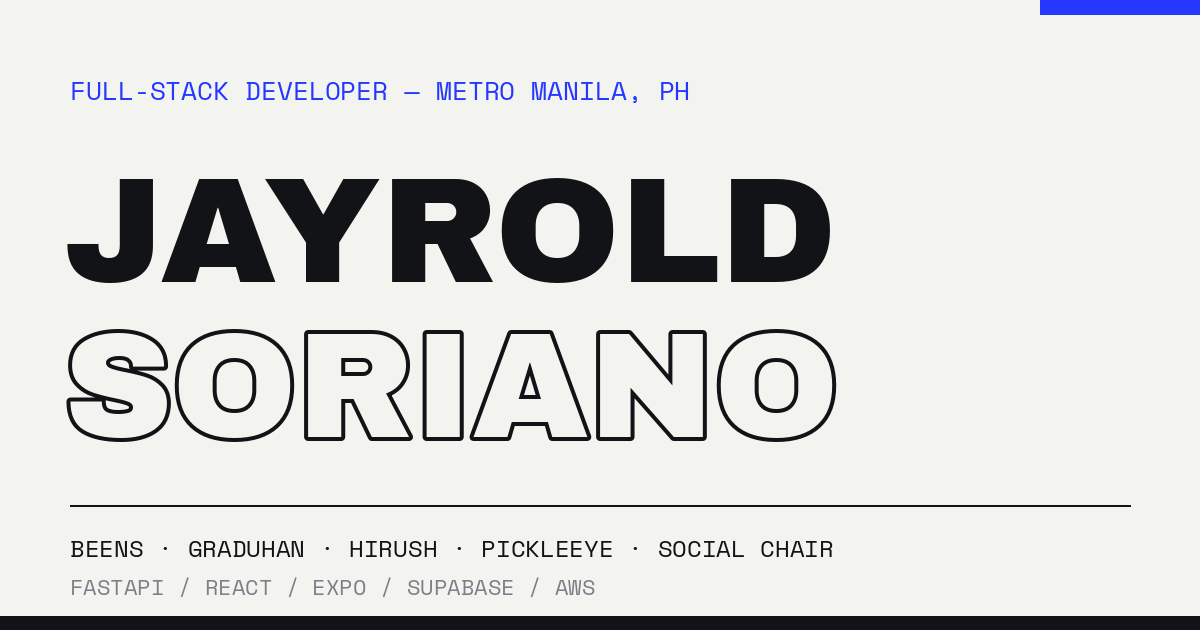
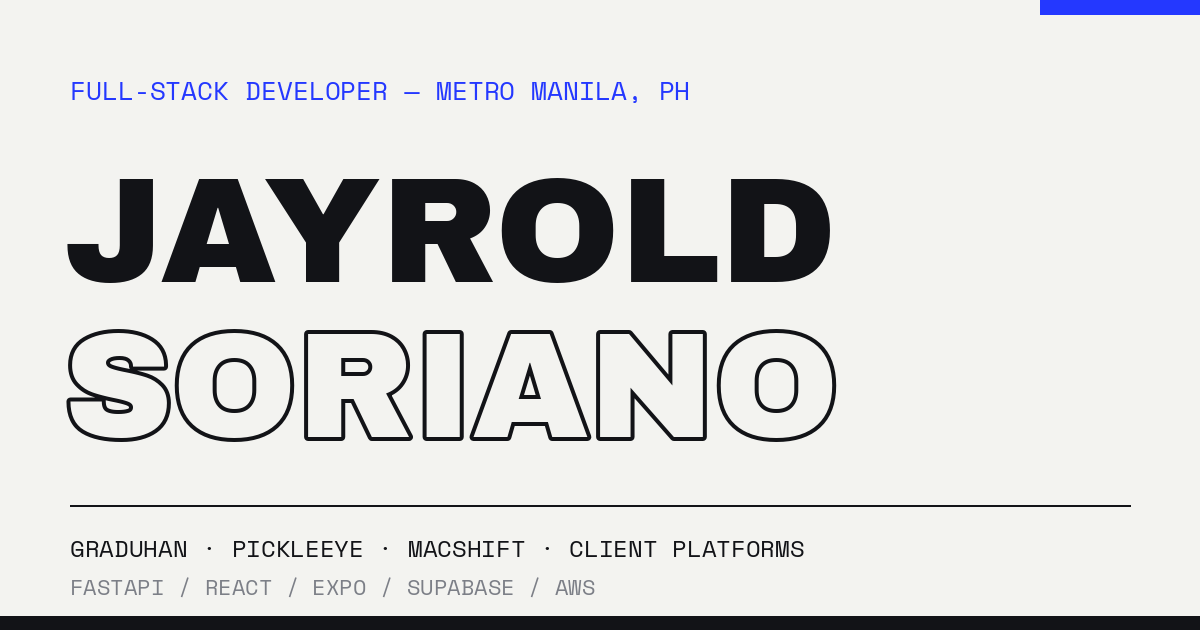
Anonymize client project names per NDA; add disclosure; scrub OG metadata and preview image

Changed region(s): [[0.0617, 0.8444, 0.7092, 0.9048]]

diff --git a/index.html b/index.html
@@ -4,18 +4,18 @@
 <meta charset="UTF-8">
 <meta name="viewport" content="width=device-width, initial-scale=1.0">
 <title>Jayrold Soriano — Full-Stack Developer</title>
-<meta name="description" content="Full-stack developer in Metro Manila. FastAPI, React, Expo, Supabase, PostgreSQL, AWS. Builder of Beens, Graduhan, Hirush, and PickleEye.">
+<meta name="description" content="Full-stack developer in Metro Manila. FastAPI, React, Expo, Supabase, PostgreSQL, AWS. Builder of Graduhan, PickleEye, and client platforms.">
 <meta property="og:type" content="website">
 <meta property="og:url" content="https://jayroldsoriano.github.io/portfolio/">
 <meta property="og:title" content="Jayrold Soriano — Full-Stack Developer">
-<meta property="og:description" content="I design and ship products end to end — Beens, Graduhan, Hirush, PickleEye, Social Chair. FastAPI · React · Expo · Supabase · AWS.">
+<meta property="og:description" content="I design and ship products end to end — Graduhan, PickleEye, and client platforms. FastAPI · React · Expo · Supabase · AWS.">
 <meta property="og:image" content="https://jayroldsoriano.github.io/portfolio/og-image.png">
 <meta property="og:image:width" content="1200">
 <meta property="og:image:height" content="630">
 <meta property="og:image:alt" content="Jayrold Soriano — Full-Stack Developer, Metro Manila PH">
 <meta name="twitter:card" content="summary_large_image">
 <meta name="twitter:title" content="Jayrold Soriano — Full-Stack Developer">
-<meta name="twitter:description" content="Full-stack developer in Metro Manila — builder of Beens, Graduhan, Hirush, PickleEye, and Social Chair.">
+<meta name="twitter:description" content="Full-stack developer in Metro Manila — builder of Graduhan, PickleEye, and confidential client platforms.">
 <meta name="twitter:image" content="https://jayroldsoriano.github.io/portfolio/og-image.png">
 <link rel="preconnect" href="https://fonts.googleapis.com">
 <link rel="preconnect" href="https://fonts.gstatic.com" crossorigin>
@@ -252,8 +252,8 @@ footer .mono{color:var(--steel)}
   </div>
   <div class="strip mono" aria-hidden="true">
     <div class="strip-inner">
-      <span>Beens — <b>Social App</b></span><span>Graduhan — <b>EdTech SaaS</b></span><span>Hirush — <b>Marketplace</b></span><span>PickleEye — <b>Sports Tech / CV</b></span><span>Social Chair — <b>Venue Platform</b></span><span>Graduhan by GradeFlow — <b>Founder</b></span><span>Zenigan Studio — <b>Software Associate</b></span>
-      <span>Beens — <b>Social App</b></span><span>Graduhan — <b>EdTech SaaS</b></span><span>Hirush — <b>Marketplace</b></span><span>PickleEye — <b>Sports Tech / CV</b></span><span>Social Chair — <b>Venue Platform</b></span><span>Graduhan by GradeFlow — <b>Founder</b></span><span>Zenigan Studio — <b>Software Associate</b></span>
+      <span>Social Platform — <b>Client Work</b></span><span>Graduhan — <b>EdTech SaaS</b></span><span>Freelance Marketplace — <b>Client Work</b></span><span>PickleEye — <b>Sports Tech / CV</b></span><span>Venue Booking — <b>Client Work</b></span><span>Graduhan by GradeFlow — <b>Founder</b></span><span>Zenigan Studio — <b>Software Associate</b></span>
+      <span>Social Platform — <b>Client Work</b></span><span>Graduhan — <b>EdTech SaaS</b></span><span>Freelance Marketplace — <b>Client Work</b></span><span>PickleEye — <b>Sports Tech / CV</b></span><span>Venue Booking — <b>Client Work</b></span><span>Graduhan by GradeFlow — <b>Founder</b></span><span>Zenigan Studio — <b>Software Associate</b></span>
     </div>
   </div>
 </header>
@@ -261,13 +261,13 @@ footer .mono{color:var(--steel)}
 <section id="work" aria-label="Selected work">
   <div class="wrap sec-head">
     <h2>Selected Work</h2>
-    <span class="mono">Tap a project to expand</span>
+    <span class="mono">Client names anonymized per NDA · tap to expand</span>
   </div>
 
   <details class="project">
     <summary>
       <span class="p-tag mono">Social</span>
-      <span class="p-title">Beens</span>
+      <span class="p-title">Social Platform</span>
       <span class="p-role mono">Full-Stack · 3 Repos</span>
     </summary>
     <div class="project-body">
@@ -315,14 +315,14 @@ footer .mono{color:var(--steel)}
   <details class="project">
     <summary>
       <span class="p-tag mono">Marketplace</span>
-      <span class="p-title">Hirush</span>
+      <span class="p-title">Marketplace</span>
       <span class="p-role mono">Backend Architecture</span>
     </summary>
     <div class="project-body">
       <span class="spacer"></span>
       <div>
         <h3>What it is</h3>
-        <p>A freelance marketplace platform serving three roles — client, freelancer, and admin — with a four-state earnings pipeline and a credit system (RushPoints) for job applications.</p>
+        <p>A freelance marketplace platform serving three roles — client, freelancer, and admin — with a four-state earnings pipeline and a credit system for job applications.</p>
         <div class="chips"><span>FastAPI</span><span>PostgreSQL</span><span>Redis</span><span>AWS</span><span>Twilio</span><span>Claude API</span></div>
       </div>
       <div>
@@ -365,7 +365,7 @@ footer .mono{color:var(--steel)}
   <details class="project">
     <summary>
       <span class="p-tag mono">Platform</span>
-      <span class="p-title">Social Chair</span>
+      <span class="p-title">Venue Booking</span>
       <span class="p-role mono">Full-Stack · 5 Repos</span>
     </summary>
     <div class="project-body">
@@ -391,7 +391,7 @@ footer .mono{color:var(--steel)}
   <div class="wrap">
     <div class="sec-head">
       <h2>More Builds</h2>
-      <span class="mono">Experiments &amp; client work</span>
+      <span class="mono">Experiments &amp; client work · names withheld per NDA</span>
     </div>
     <div class="builds">
       <div class="build">
@@ -420,13 +420,13 @@ footer .mono{color:var(--steel)}
       </div>
       <div class="build">
         <span class="mono">Microservices / Studio Work</span>
-        <h3>Blume Platform</h3>
+        <h3>Lifestyle Services Platform</h3>
         <p>A multi-service platform built at studio scale: Python/FastAPI microservices for auth, planner, gifting, user profiles, and search — including a shared middleware package (auth verification, JWT-aware OpenAPI) installed across services — alongside SwiftUI iOS and Android clients.</p>
       </div>
       <div class="build">
         <span class="mono">Admin / Fintech</span>
-        <h3>StreamNation PH</h3>
-        <p>Platform work spanning a Next.js 16 admin panel (RBAC, invites, departments, and finance workflows with shadcn/ui, TanStack Query, and Zod) and Fina, a production React Native Expo app for financial management and networking on Supabase.</p>
+        <h3>Streaming Media Platform</h3>
+        <p>Platform work spanning a Next.js 16 admin panel (RBAC, invites, departments, and finance workflows with shadcn/ui, TanStack Query, and Zod) and a production React Native Expo app for financial management and networking on Supabase.</p>
       </div>
       <div class="build">
         <span class="mono">Project Management</span>
@@ -505,7 +505,7 @@ footer .mono{color:var(--steel)}
       </div>
       <div>
         <h3>Software Associate — <span class="where">Zenigan Studio</span></h3>
-        <p>Client-facing software delivery: full-stack development on the Beens platform, professional client documentation, and project proposals for external engagements.</p>
+        <p>Client-facing software delivery: full-stack development on a client social platform, professional client documentation, and project proposals for external engagements.</p>
       </div>
     </div>
     <div class="xp">
@@ -532,7 +532,7 @@ footer .mono{color:var(--steel)}
       </div>
       <div>
         <h3>Frontend Developer &amp; Lead UI/UX Designer — <span class="where">Talaghay Software Development Services</span></h3>
-        <p>Built high-performance Flutter apps on MVVM clean architecture across client projects, led UI/UX design for the Raven mobile app (2023–2024), and developed the Blume platform's Python/FastAPI microservices.</p>
+        <p>Built high-performance Flutter apps on MVVM clean architecture across client projects, led UI/UX design for a flagship client mobile app (2023–2024), and developed a multi-service client platform's Python/FastAPI microservices.</p>
       </div>
     </div>
     <div class="xp">
@@ -567,6 +567,7 @@ footer .mono{color:var(--steel)}
   </div>
   <footer>
     <span class="mono">© 2026 Jayrold Soriano</span>
+    <span class="mono">Client project names anonymized to honor NDAs</span>
     <span class="mono">Metro Manila, Philippines</span>
   </footer>
 </section>
